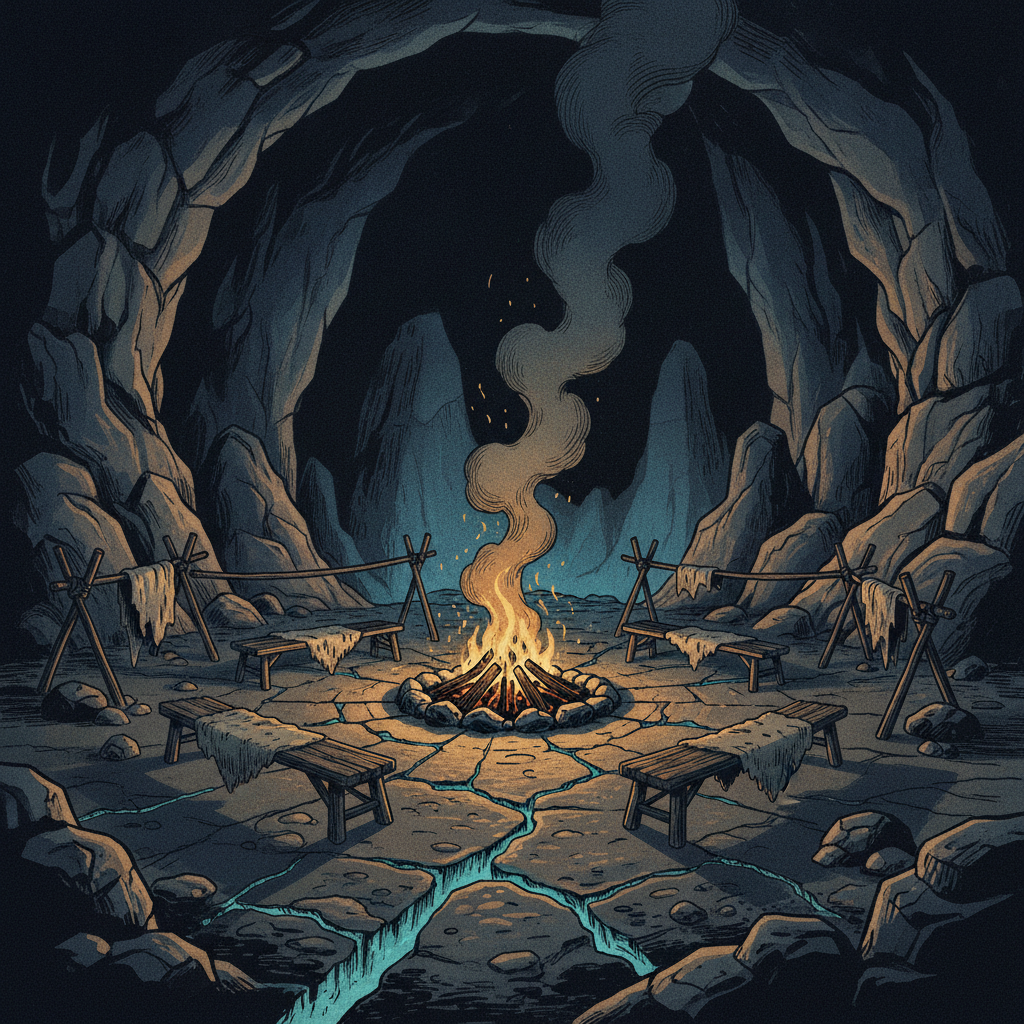
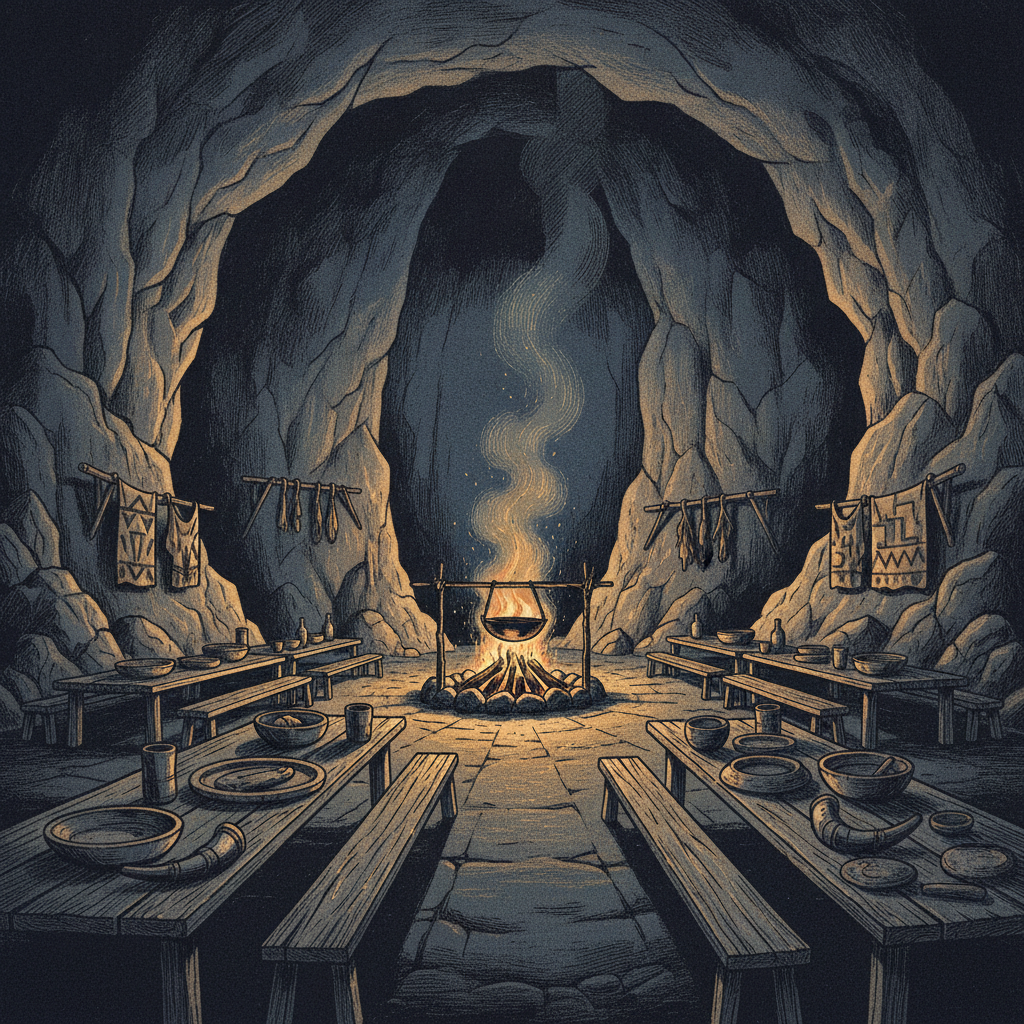
feat(icewind-dale): redraw the Great Hall as a feast hall
The image now shows long tables set for a meal instead of benches
around the fire, and drops the blue glow from the floor.

diff --git a/rpg/icewind-dale/public/locations/the-great-hall.md b/rpg/icewind-dale/public/locations/the-great-hall.md
@@ -5,7 +5,7 @@ layout: location
 title: The Great Hall
 association: Coldpeak tribe
 image: /rpg/icewind-dale/public/locations/images/the-great-hall.png
-image_prompt: "[cavern] a vast natural cavern cut deep into a mountain, a great central fire pit burning low with hide-draped benches and drying racks around it, smoke rising into darkness above, the rough rock floor near the fire cracked by a faint cold-blue glow seeping up from deep beneath the stone, no figures, no text no letters no words anywhere"
+image_prompt: "[cavern] a vast natural cavern cut deep into a mountain serving as a tribe's feast hall and meeting place, long rough-hewn timber tables with benches running the length of the cave, wooden bowls, platters and drinking horns left on the tables, a great central fire pit with a cooking spit, hide hangings and drying racks along the rock walls, smoke rising into darkness above, warm firelight, no figures, no text no letters no words anywhere"
 ---
 
 The heart of [Coldpeak camp](coldpeak-camp): a wide cavern at the back of the hollow, where the mountain stops being a wall and becomes a roof. The tribe gathers here to eat, argue, and wait out the worst weather. A fire burns at its center and has not been allowed to go out. Council is held at that fire, and so are most meals.
